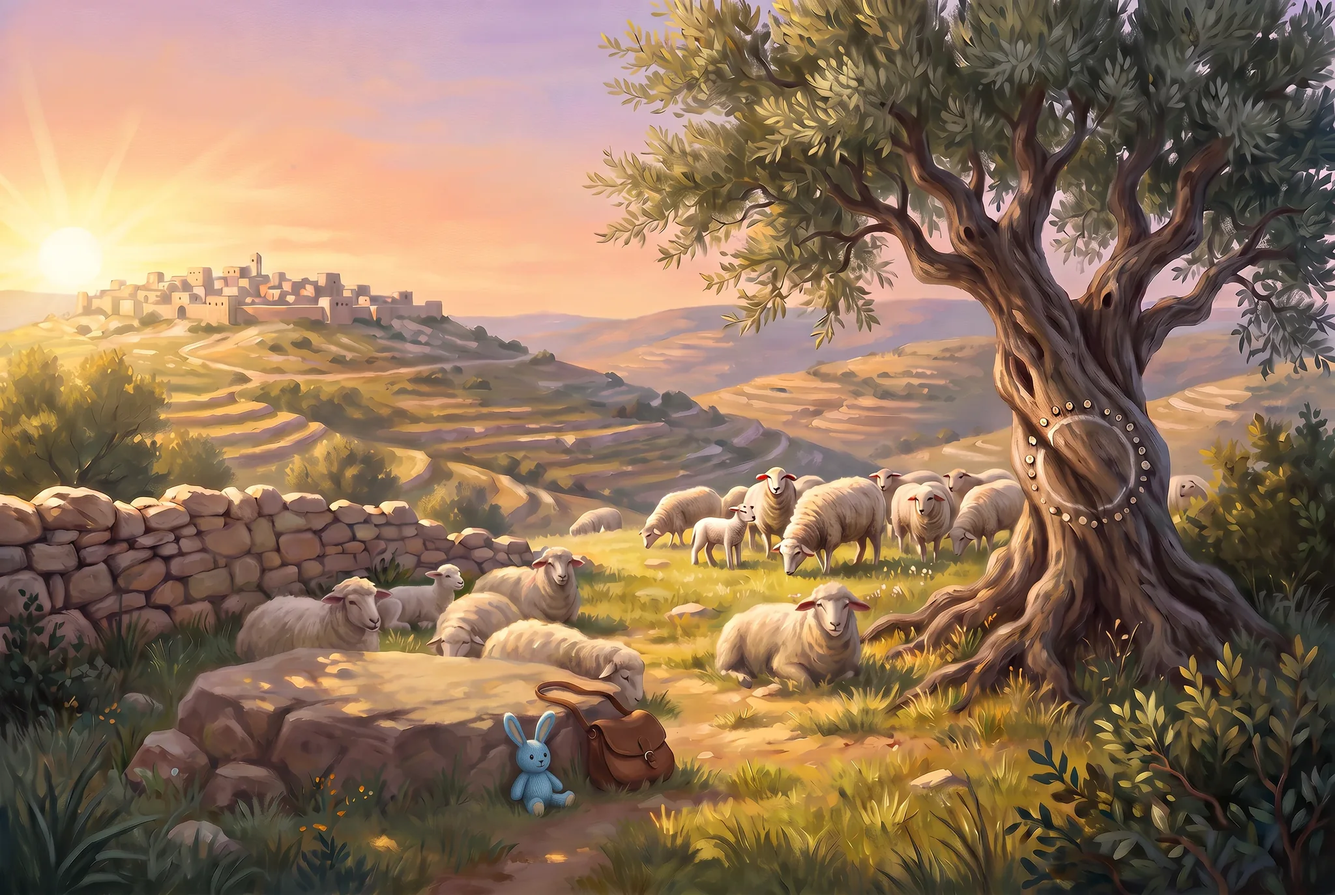
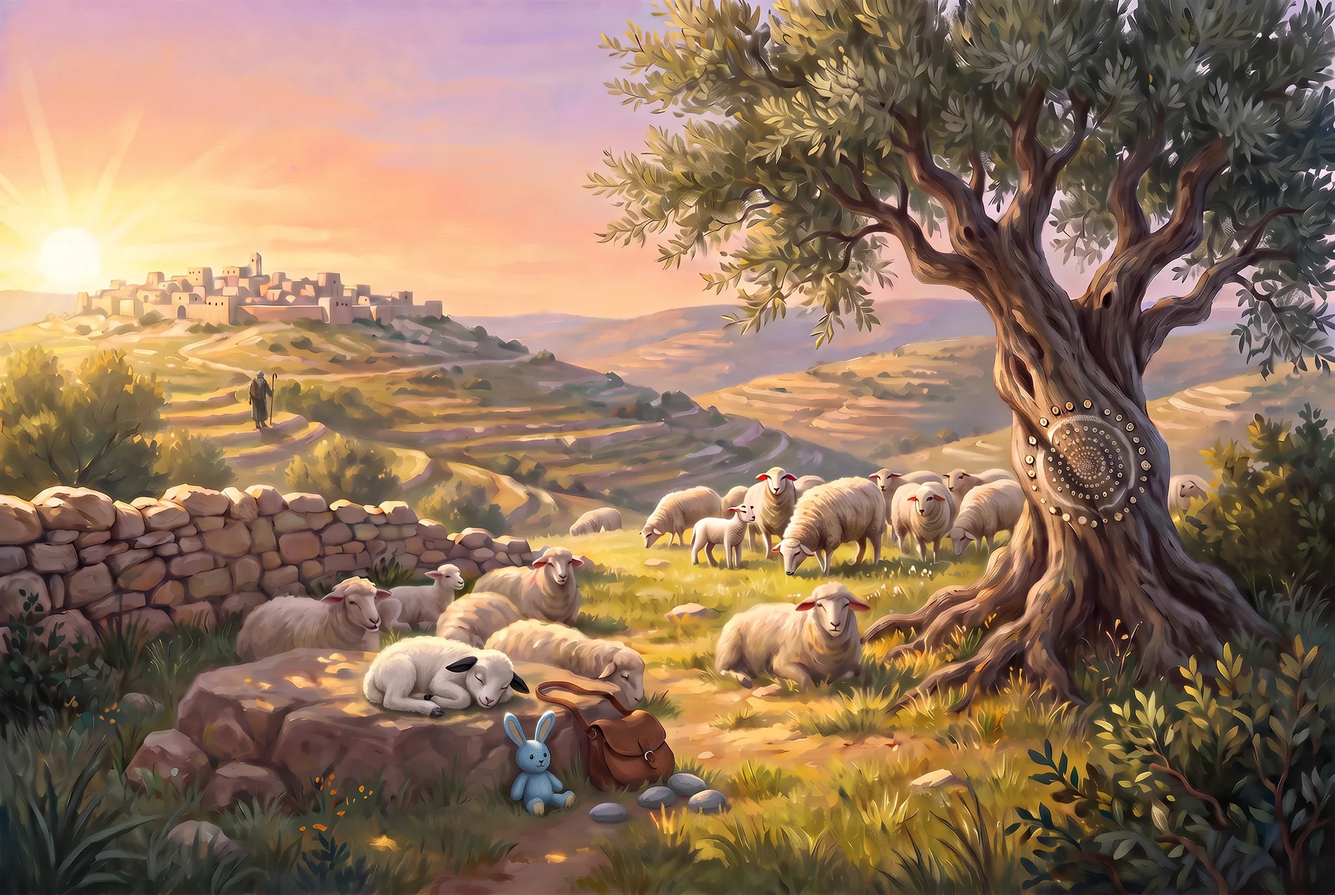
B-BOOK-26: art ROUND 3 (manuscript v2) imported - plates PL1 <- v2 (spiral marks), PL1b <- v2 (black-eared lamb), PL1d <- v2 (lamb asleep, four stones, keeper), PL3 <- v2 (40 tallies, Saul at the tent), PL6 <- v2 (the giant's shadow), NEW PL3e (p3b, Eliab), PL3w2 (p6c, Goliath wading), PL3w3 (p7c, s

diff --git a/app/src/lib/library/books/fiveSmoothStones.ts b/app/src/lib/library/books/fiveSmoothStones.ts
@@ -125,8 +125,14 @@ export const fiveSmoothStonesPlates: PlateTable = {
   "PL7-dust": plate("PL7-dust", "day"), // full-plate BOOM alternative — NOT used (the edit re-framed; the dust overlay is used)
   // v2 (round 3): registered only when the geometry has them
   ...(G.plates.PL3e ? { PL3e: plate("PL3e", "morning") } : {}), // p3b: Eliab standing by the bread basket
+  ...(G.plates.PL3w2 ? { PL3w2: plate("PL3w2", "day") } : {}), // p6c: Goliath wading in the brook, twice the size
+  ...(G.plates.PL3w3 ? { PL3w3: plate("PL3w3", "day") } : {}), // p7c: the two nearest soldiers lift their heads
   ...(G.plates["PL7-rise"] ? { "PL7-rise": plate("PL7-rise", "day") } : {}), // p9 state 3: the soldiers stand
 };
+
+/** The plate the geometry gives a page (round 3 put p3b on PL3e, p6c on PL3w2,
+ *  p7c on PL3w3); `fallback` = the manuscript's plate. */
+const plateOf = (pageId: string, fallback: string): string => G.pages[pageId]?.plate ?? fallback;
 
 /** A line that is the same for both Hebrew genders (CAST: spoken of David). */
 const same = (en: string, he: string): BookLine => ({ en, he: { m: he, f: he } });
@@ -142,7 +148,7 @@ export const ART_PENDING = new Set<string>(G.pages.p3b ? [] : ["p3b"]);
 
 const cover: Page = {
   id: "cover",
-  plateId: "PL3",
+  plateId: plateOf("cover", "PL3"),
   type: "spread",
   hero: heroOf("cover", "walk-bag"),
   ...artOf("cover"),
@@ -151,7 +157,7 @@ const cover: Page = {
 
 const p1: Page = {
   id: "p1",
-  plateId: "PL1",
+  plateId: plateOf("p1", "PL1"),
   hero: heroOf("p1", "sling-swing"),
   ...artOf("p1"),
   text: {
@@ -165,7 +171,7 @@ const p1: Page = {
 
 const p2: Page = {
   id: "p2",
-  plateId: "PL1b",
+  plateId: plateOf("p2", "PL1b"),
   hero: heroOf("p2", "run-staff"),
   ...artOf("p2"),
   text: same(
@@ -176,7 +182,7 @@ const p2: Page = {
 
 const p3: Page = {
   id: "p3",
-  plateId: "PL3",
+  plateId: plateOf("p3", "PL3"),
   hero: heroOf("p3", "look-up"),
   ...artOf("p3"),
   text: same(
@@ -189,7 +195,7 @@ const p3: Page = {
 // geometry, the valley plate and p3's slot with `look-across` stand in.
 const p3b: Page = {
   id: "p3b",
-  plateId: G.plates.PL3e ? "PL3e" : "PL3",
+  plateId: plateOf("p3b", "PL3"),
   hero: G.pages.p3b?.hero ?? withPose(G.pages.p3?.hero ?? heroOf("p3", "look-across"), "look-across"),
   ...(G.pages.p3b ? artOf("p3b") : { phoneCrop: G.pages.p3?.phoneCrop }),
   text: same(
@@ -200,7 +206,7 @@ const p3b: Page = {
 
 const p4: Page = {
   id: "p4",
-  plateId: "PL4",
+  plateId: plateOf("p4", "PL4"),
   hero: withPose(heroOf("p4", "stand-tall-hand"), "stand-tall-hand"),
   ...artOf("p4"),
   text: same(
@@ -211,7 +217,7 @@ const p4: Page = {
 
 const p5: Page = {
   id: "p5",
-  plateId: "PL4",
+  plateId: plateOf("p5", "PL4"),
   type: "spread",
   hero: heroOf("p5", "worried"),
   ...artOf("p5"),
@@ -224,7 +230,7 @@ const p5: Page = {
 // ── Branch A — HARD: "Go as I am" (1 page) ────────────────────────────────────
 const p6a: Page = {
   id: "p6a",
-  plateId: "PL3",
+  plateId: plateOf("p6a", "PL3"),
   hero: heroOf("p6a", "run-staff"),
   ...artOf("p6a"),
   text: same(
@@ -236,7 +242,7 @@ const p6a: Page = {
 // ── Branch B — EASY: "Wear the king's armour" (2 pages) ───────────────────────
 const p6b: Page = {
   id: "p6b",
-  plateId: "PL4e",
+  plateId: plateOf("p6b", "PL4e"),
   hero: heroOf("p6b", "armour-stuck"),
   ...artOf("p6b"),
   text: same(
@@ -247,7 +253,7 @@ const p6b: Page = {
 
 const p7b: Page = {
   id: "p7b",
-  plateId: "PL4e",
+  plateId: plateOf("p7b", "PL4e"),
   hero: heroOf("p7b", "armour-stuck"),
   ...artOf("p7b"),
   text: same(`"I cannot go with these," says David, "for I have not tried them."`, `"לֹא אוּכַל לָלֶכֶת בָּאֵלֶּה, כִּי לֹא נִסִּיתִי," אומר דוד.`),
@@ -269,7 +275,7 @@ const p7b: Page = {
 // ── Branch C — THIRD: "Wait for someone bigger" (2 pages) ─────────────────────
 const p6c: Page = {
   id: "p6c",
-  plateId: "PL3w",
+  plateId: plateOf("p6c", "PL3w"),
   hero: withPose(heroOf("p6c", "sit-hunched"), "sit-hunched"),
   ...artOf("p6c"),
   text: same(
@@ -280,7 +286,7 @@ const p6c: Page = {
 
 const p7c: Page = {
   id: "p7c",
-  plateId: "PL3w",
+  plateId: plateOf("p7c", "PL3w"),
   hero: withPose(heroOf("p7c", "sit-hunched"), "sit-hunched"),
   ...artOf("p7c"),
   text: same(`Nobody. Not one.`, `אף אחד. אפילו לא אחד.`),
@@ -299,7 +305,7 @@ const p7c: Page = {
 // ── Rejoin, climax, ending ────────────────────────────────────────────────────
 const p8: Page = {
   id: "p8",
-  plateId: "PL6",
+  plateId: plateOf("p8", "PL6"),
   hero: heroOf("p8", "kneel"),
   ...artOf("p8"),
   text: same(
@@ -323,7 +329,7 @@ const p9States: NonNullable<Page["artStates"]> = [
 
 const p9: Page = {
   id: "p9",
-  plateId: "PL7",
+  plateId: plateOf("p9", "PL7"),
   type: "spread",
   hero: heroOf("p9", "sling-swing"),
   ...artOf("p9"),
@@ -336,7 +342,7 @@ const p9: Page = {
 
 const p10: Page = {
   id: "p10",
-  plateId: "PL1d",
+  plateId: plateOf("p10", "PL1d"),
   type: "spread",
   hero: heroOf("p10", "sit"),
   ...artOf("p10"),

diff --git a/app/src/components/library/BookReader.test.tsx b/app/src/components/library/BookReader.test.tsx
@@ -39,7 +39,7 @@ function run(...actions: BookFlowAction[]): BookFlowState {
   return actions.reduce((s, a) => bookFlowReducer(book, s, a), initialBookFlow());
 }
 
-function render(state: BookFlowState, opts: { lang?: BookLang; child?: BookReaderChild; box?: Box; revealed?: boolean; choosing?: boolean } = {}): string {
+function render(state: BookFlowState, opts: { lang?: BookLang; child?: BookReaderChild; box?: Box; revealed?: boolean | number; choosing?: boolean } = {}): string {
   return renderToStaticMarkup(
     <div className="arbor-play">
       <BookReader book={book} lang={opts.lang ?? "en"} child={opts.child ?? BOY} onClose={() => {}} dev narration="off" initialState={state} initialBox={opts.box ?? WIDE} initialRevealed={opts.revealed} initialChoosing={opts.choosing} />
@@ -275,8 +275,12 @@ describe("the ending", () => {
     expect(nextIntent(true, true, true)).toBe("hold");
     expect(nextIntent(true, true, false)).toBe("turn");
     expect(nextIntent(false, false, false)).toBe("turn");
-    const shown = render(s, { revealed: true });
+    const shown = render(s, { revealed: 1 });
     expect(shown).not.toMatch(/data-book-overlay="dust-cloud"[^>]*data-hidden=""/);
+    // round 3 delivered PL7-rise: the last state is the soldiers rising
+    const all = render(s, { revealed: true });
+    expect(all).toContain('data-book-state-plate="PL7-rise"');
+    expect(all).toMatch(/data-book-overlay="dust-cloud"[^>]*data-hidden=""/);
   });
 
   it("v2 art states: p9 = swing → dust → 'the soldiers rise' plate cross-fading in over PL7 (the hero stays, the dust goes)", () => {
@@ -287,8 +291,9 @@ describe("the ending", () => {
     ];
     const riseBook = { ...book, pages: book.pages.map((p) => (p.id === "p9" ? { ...p, artStates: RISE } : p)) };
     const plates = { ...BOOK_PLATES[book.id], "PL7-rise": makePlate(book.id, "PL7-rise", "day", { width: 1920, height: 1280 }) };
+    const { "PL7-rise": _rise, ...withoutRise } = plates;
     const at = (stage: number | boolean, withPlate = true) =>
-      renderToStaticMarkup(<BookReader book={riseBook} lang="en" child={BOY} onClose={() => {}} dev narration="off" initialState={s} initialBox={WIDE} plates={withPlate ? plates : undefined} initialRevealed={stage} />);
+      renderToStaticMarkup(<BookReader book={riseBook} lang="en" child={BOY} onClose={() => {}} dev narration="off" initialState={s} initialBox={WIDE} plates={withPlate ? plates : withoutRise} initialRevealed={stage} />);
     const s0 = at(0);
     expect(s0).toMatch(/data-book-overlay="dust-cloud"[^>]*data-hidden=""/);
     expect(s0).not.toContain("data-book-state-plate");

diff --git a/app/src/lib/library/books.test.ts b/app/src/lib/library/books.test.ts
@@ -281,13 +281,11 @@ describe("Five Smooth Stones (the proof) — manuscript specifics", () => {
     expect(spreads).toEqual(["cover", "p10", "p5", "p9"]);
   });
 
-  it("uses the 9 plates of §5.1 (4 of them edits) and the 9 poses of §5.2", () => {
-    const plateIds = new Set(pagesOf.map((p) => p.plateId));
-    plateIds.delete("PL3e"); // v2 round 3 (p3b), once delivered
-    expect(plateIds).toEqual(new Set(["PL1", "PL1b", "PL1d", "PL3", "PL3w", "PL4", "PL4e", "PL6", "PL7"]));
-    const variants = Object.values(BOOK_PLATES[book.id]).filter((p) => p.variantOf && p.id !== "PL3e" && p.id !== "PL7-rise").map((p) => p.id).sort();
-    // + PL7-dust, registered but unused (the edit re-framed; the dust overlay is used)
-    expect(variants).toEqual(["PL1b", "PL1d", "PL3w", "PL4e", "PL7-dust"]);
+  it("round 3 (v2): the plates the pages name, the edits, and the poses", () => {
+    expect(new Set(pagesOf.map((p) => p.plateId))).toEqual(new Set(["PL1", "PL1b", "PL1d", "PL3", "PL3e", "PL3w2", "PL3w3", "PL4", "PL4e", "PL6", "PL7"]));
+    const variants = Object.values(BOOK_PLATES[book.id]).filter((p) => p.variantOf).map((p) => p.id).sort();
+    // + PL3w (the r2 day plate, now unused), PL7-dust (registered, unused) and PL7-rise (p9's third art state)
+    expect(variants).toEqual(["PL1b", "PL1d", "PL3e", "PL3w", "PL3w2", "PL3w3", "PL4e", "PL7-dust", "PL7-rise"]);
     const poses = new Set(pagesOf.flatMap((p) => slots(p).map((s) => s.pose)));
     // the art agent's poses (LOG.md §1 + Round 2): left-facing variants keep the
     // key light upper-left; round 2 added look-across (cover), sling-swing-face-right (p9), squat-look (p8)

diff --git a/app/scripts/import-book-art.py b/app/scripts/import-book-art.py
@@ -45,11 +45,12 @@ OVERLAYS_OUT = PLATES_OUT / "overlays"
 SHEET_OUT = APP / "public" / "_dev" / "hero-sheets" / args.sheet
 G = json.load(open(SRC / args.plates, encoding="utf-8"))
 
-# Art rounds add plate VERSIONS (PL3-r2b, PL7-r2c ...). The book keeps stable
-# plate ids (PL3, PL7 ...); the version a page names is shipped under the stable
-# name. Pages whose id carries a suffix (p5-tunic, p9-boom, p8-squat ...) are
-# variants / alternatives, not book pages.
-VERSION = re.compile(r"-r\d+[a-z]?$")
+# Art rounds add plate VERSIONS (PL3-r2b, PL7-r2c, PL1-v2 ...). The book keeps
+# stable plate ids (PL3, PL7, PL1 ...); the version a page names is shipped under
+# the stable name. New compositions (PL3e, PL3w2, PL3w3, PL7-rise) are plates of
+# their own. Pages whose id carries a suffix (p5-tunic, p9-boom, p9-rise,
+# p8-squat, card-c ...) are variants / states / card compositions, not pages.
+VERSION = re.compile(r"-(r\d+[a-z]?|v\d+)$")
 
 
 def base_plate(pid: str) -> str:
@@ -60,9 +61,11 @@ BOOK_PAGES = {k: v for k, v in G["pages"].items() if "-" not in k}
 PLATE_VERSION = {}
 for _pg in BOOK_PAGES.values():
     PLATE_VERSION[base_plate(_pg["plate"])] = _pg["plate"]
+_named = set(PLATE_VERSION)
 for _pid in G["plates"]:
-    if base_plate(_pid) == _pid:
-        PLATE_VERSION.setdefault(_pid, _pid)
+    # a plate no page names (PL3w after v2, PL7-dust): its LATEST listed version
+    if base_plate(_pid) not in _named:
+        PLATE_VERSION[base_plate(_pid)] = _pid
 
 
 def alpha_meta(path: Path):
@@ -136,20 +139,31 @@ def prints():
     out_dir = SHEET_OUT / "prints"
     out_dir.mkdir(parents=True, exist_ok=True)
     found = {}
-    # the latest round's prints only (a page whose plate changed and was not
-    # re-printed shows the live composite); stale print files are removed
+    # the latest r-round's prints (pages/<id>-rN-print.jpg), then the pages that
+    # name a newer print in plates.json ("print": app/prints/<id>-v2-print.webp)
+    # replace theirs; a page whose plate changed and was not re-printed shows the
+    # live composite. Stale print files are removed.
     files = sorted((SRC / "pages").glob("*-print.jpg"))
     rounds = sorted({m.group(1) for f in files for m in [re.search(r"-(r\d+)-print$", f.stem)] if m})
     latest = rounds[-1] if rounds else None
     files = [f for f in files if (latest and f.stem.endswith(f"-{latest}-print")) or (not latest)]
+    chosen = {re.sub(r"(-r\d+)?-print$", "", f.stem): f for f in files}
+    for pid, pg in BOOK_PAGES.items():
+        if pg.get("print"):
+            chosen[pid] = SRC / pg["print"]
+    for pid, pg in BOOK_PAGES.items():
+        # a page on a v2 plate with no v2 print: its old print shows the old plate
+        if pid in chosen and VERSION.sub("", pg["plate"]) != pg["plate"] and pg["plate"].endswith("-v2") and not pg.get("print"):
+            del chosen[pid]
     for old in out_dir.glob("*.webp"):
         old.unlink()
-    for f in files:
-        pid = re.sub(r"(-r\d+)?-print$", "", f.stem)
+    for pid, f in sorted(chosen.items()):
+        if pid not in BOOK_PAGES:
+            continue
         im = Image.open(f).convert("RGB")
         im.save(out_dir / f"{pid}.webp", "WEBP", quality=85, method=6)
         found[pid] = {"file": f"prints/{pid}.webp", "w": im.width, "h": im.height}
-        print("print", pid, (out_dir / f"{pid}.webp").stat().st_size)
+        print("print", pid, "<-", f.name, (out_dir / f"{pid}.webp").stat().st_size)
     man_path = SHEET_OUT / "manifest.json"
     man = json.load(open(man_path, encoding="utf-8")) if man_path.exists() else {"id": args.sheet, "poses": {}}
     man["prints"] = found
@@ -280,7 +294,7 @@ def geometry():
         "sword": {"x": sw["x"], "y": r4(sw["y"] - sw["scale"] * 0.5), "to": {"x": r4(ri["sword"][0]), "y": r4(ri["sword"][1])}},
     }
 
-    # p7c: plates.json gives the AFTER state (running down); before = p6c's seated slot.
+    # p7c: plates.json gives the AFTER state (v2: standing tall); before = p6c's seated slot.
     p7c = pages["p7c"]
     p7c["heroAfter"] = p7c["hero"]
     p7c["hero"] = dict(pages["p6c"]["hero"])
@@ -290,12 +304,18 @@ def geometry():
     boom = [l for l in G["pages"]["p9-boom"]["layers"] if "dust-cloud" in l["file"]][0]
     oid, o = overlay_of(boom, "dust-cloud", {"reveal": "afterNarration", "z": "under"})
     pages["p9"].setdefault("overlays", {})[oid] = o
+    # v2: p9's states [p9, p9-boom, p9-rise] - the rise plate is a plate of its
+    # own (the book's artStates name it; the hero slot is unchanged)
+    for st in G["pages"]["p9"].get("states", []):
+        sp = G["pages"].get(st, {}).get("plate")
+        if sp and sp != G["pages"]["p9"]["plate"] and base_plate(sp) not in plates:
+            print("WARNING: p9 state plate not shipped:", sp)
 
     scene_choices = PLATES_OUT / "choices"
     choice_art = {f.stem: f"choices/{f.name}" for f in sorted(scene_choices.glob("*.webp"))} if scene_choices.exists() else {}
     out = {
         **({"choiceArt": choice_art} if choice_art else {}),
-        "_note": "GENERATED by app/scripts/import-book-art.py from proof-art/david/plates.json (art agent, 5 Oct). Fractions of the 3:2 master. Schema: src/lib/library/bookGeometry.ts. Re-run the script; do not hand-edit.",
+        "_note": "GENERATED by app/scripts/import-book-art.py from proof-art/david/app/plates.json (art agent, round 3 / manuscript v2, 6 Oct). Fractions of the 3:2 master. Schema: src/lib/library/bookGeometry.ts. Re-run the script; do not hand-edit.",
         "plates": plates,
         "pages": pages,
     }
